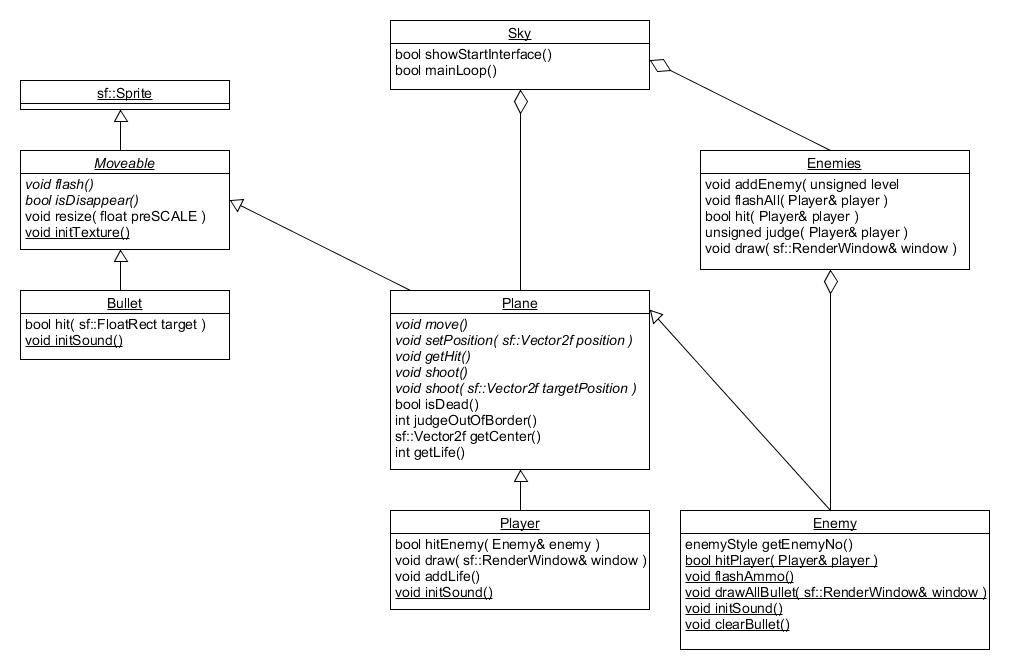
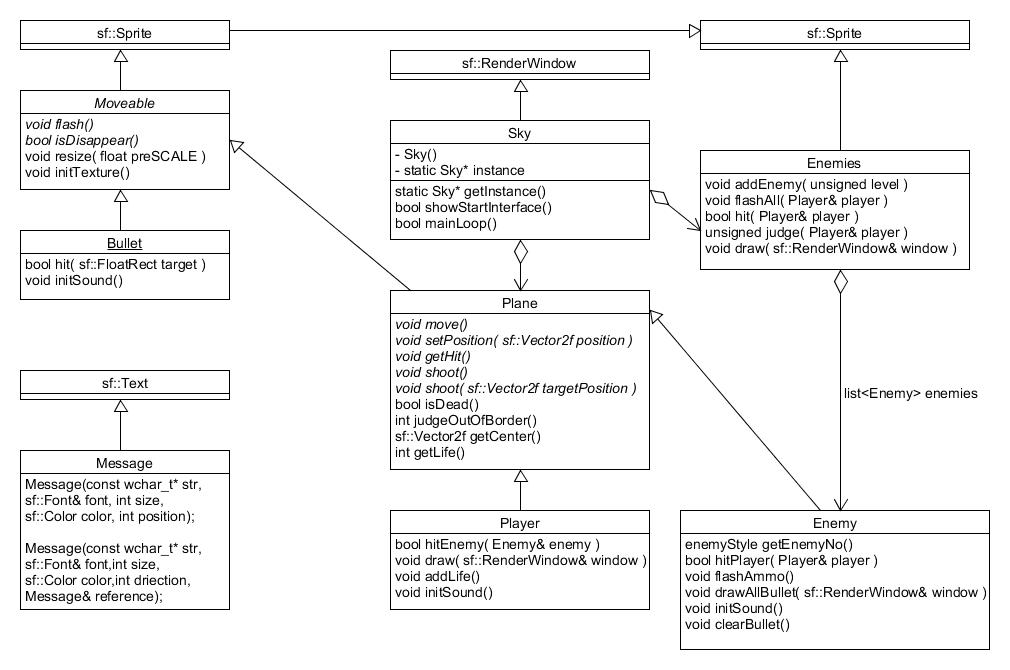
v0.40
Adjust some Design Patterns.
Also as the Design Patterns' homework :joy:

diff --git a/src/Sky.cpp b/src/Sky.cpp
@@ -1,5 +1,7 @@
 #include "Sky.h"
 
+Sky* Sky::instance = nullptr;
+
 Sky::Sky() :
     sf::RenderWindow(
         sf::VideoMode(WINDOW_SIZE_X, WINDOW_SIZE_Y),
@@ -11,6 +13,15 @@ Sky::Sky() :
     this->initMusic();
     this->initFont();
     Moveable::initTexture();
+}
+
+Sky* Sky::getInstance()
+{
+    if ( Sky::instance == nullptr ) {
+        Sky::instance = new Sky;
+    }
+
+    return Sky::instance;
 }
 
 void
@@ -399,13 +410,16 @@ Sky::drawGameInterface(
     this->draw( this->spriteBackground );
 
     //Draw all enemy
-    enemies.draw( *this );
+    this->draw( enemies );
 
     //Draw all enemy bullet
     Enemy::drawAllBullet( *this );
 
-    //Draw all player bullet and player itself
-    player.draw( *this );
+    //Draw player
+    this->draw(player);
+
+    //Draw all player bullet
+    player.drawAllBullet( *this );
 
     //Draw score
     this->draw( this->getScore() );

diff --git a/include/Enemies.h b/include/Enemies.h
@@ -12,7 +12,7 @@
 #include "Enemy.h"
 
 
-class Enemies {
+class Enemies : public sf::Drawable {
 public:
     Enemies();
 
@@ -34,14 +34,15 @@ public:
         Player& player
         );
 
-    void
-    draw(
-        sf::RenderWindow& window
-        );
-
 protected:
 
 private:
+
+    virtual void
+    draw(
+        sf::RenderTarget& target,
+        sf::RenderStates states
+        ) const;
 
     std::list<Enemy> enemies;
 

diff --git a/src/Enemies.cpp b/src/Enemies.cpp
@@ -93,10 +93,11 @@ Enemies::hit(
 
 void
 Enemies::draw(
-    sf::RenderWindow& window
-    )
+    sf::RenderTarget& target,
+    sf::RenderStates states
+    ) const
 {
-    for( auto &enemy : enemies ){
-        window.draw( enemy );
+    for ( auto& enemy : this->enemies ) {
+        target.draw( enemy, states );
     }
 }

diff --git a/src/Player.cpp b/src/Player.cpp
@@ -123,14 +123,11 @@ Player::flash( void )
 }
 
 void
-Player::draw(
-    sf::RenderWindow& window
-    )
+Player::drawAllBullet( sf::RenderWindow& window )
 {
-    for( auto &bullet : ammo ){
+    for( auto &bullet : ammo ) {
         window.draw( bullet );
     }
-    window.draw( *this );
 }
 
 bool

diff --git a/main.cpp b/main.cpp
@@ -3,10 +3,10 @@
 float nowSCALE = SCALE;
 
 int main( void ) {
-    Sky sky;
+    Sky* sky = Sky::getInstance();
 
-    if ( sky.showStartInterface() ) {
-        while( sky.mainLoop() )
+    if ( sky -> showStartInterface() ) {
+        while( sky -> mainLoop() )
             ;
     }
 

diff --git a/include/Sky.h b/include/Sky.h
@@ -20,7 +20,7 @@
 class Sky : public sf::RenderWindow {
 public:
 
-    Sky();
+    static Sky* getInstance();
 
     bool
     showStartInterface( void );
@@ -31,6 +31,10 @@ public:
 protected:
 
 private:
+
+    Sky();
+
+    static Sky* instance;
 
     void
     pause(

diff --git a/include/Player.h b/include/Player.h
@@ -53,6 +53,9 @@ public:
     void
     addLife( void );
 
+    void
+    drawAllBullet( sf::RenderWindow& window );
+
 protected:
 
 private:
